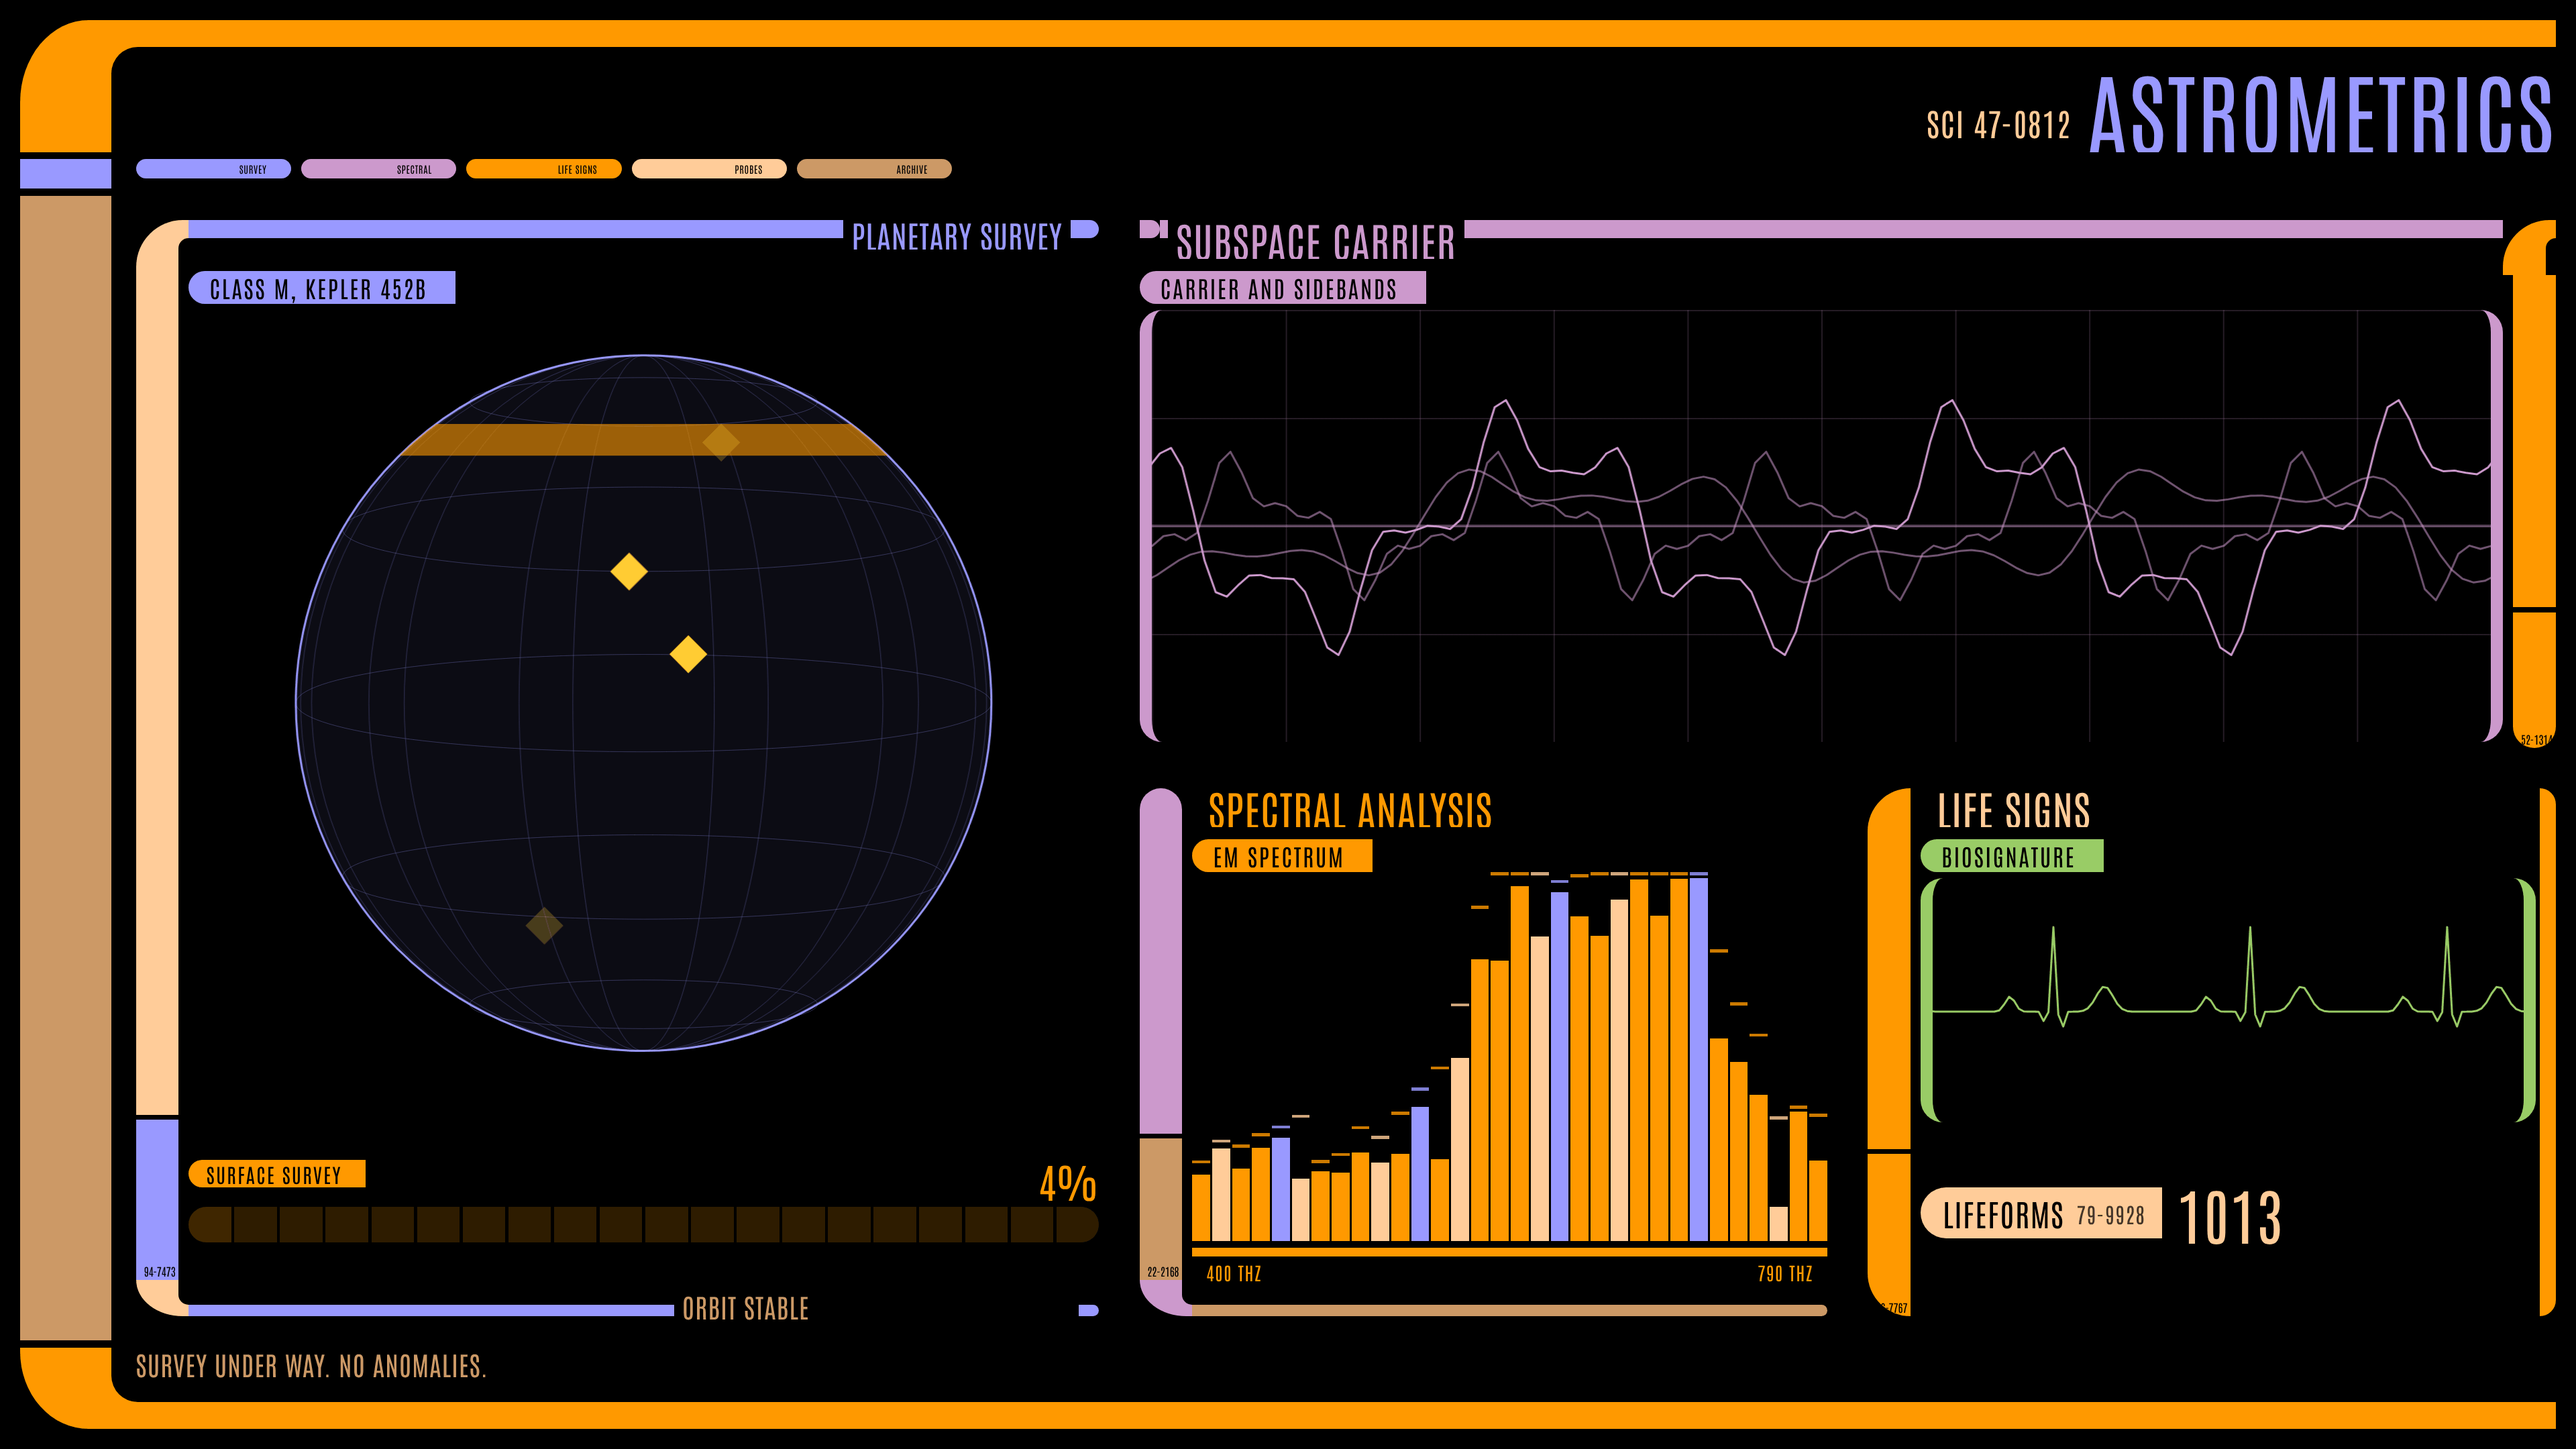
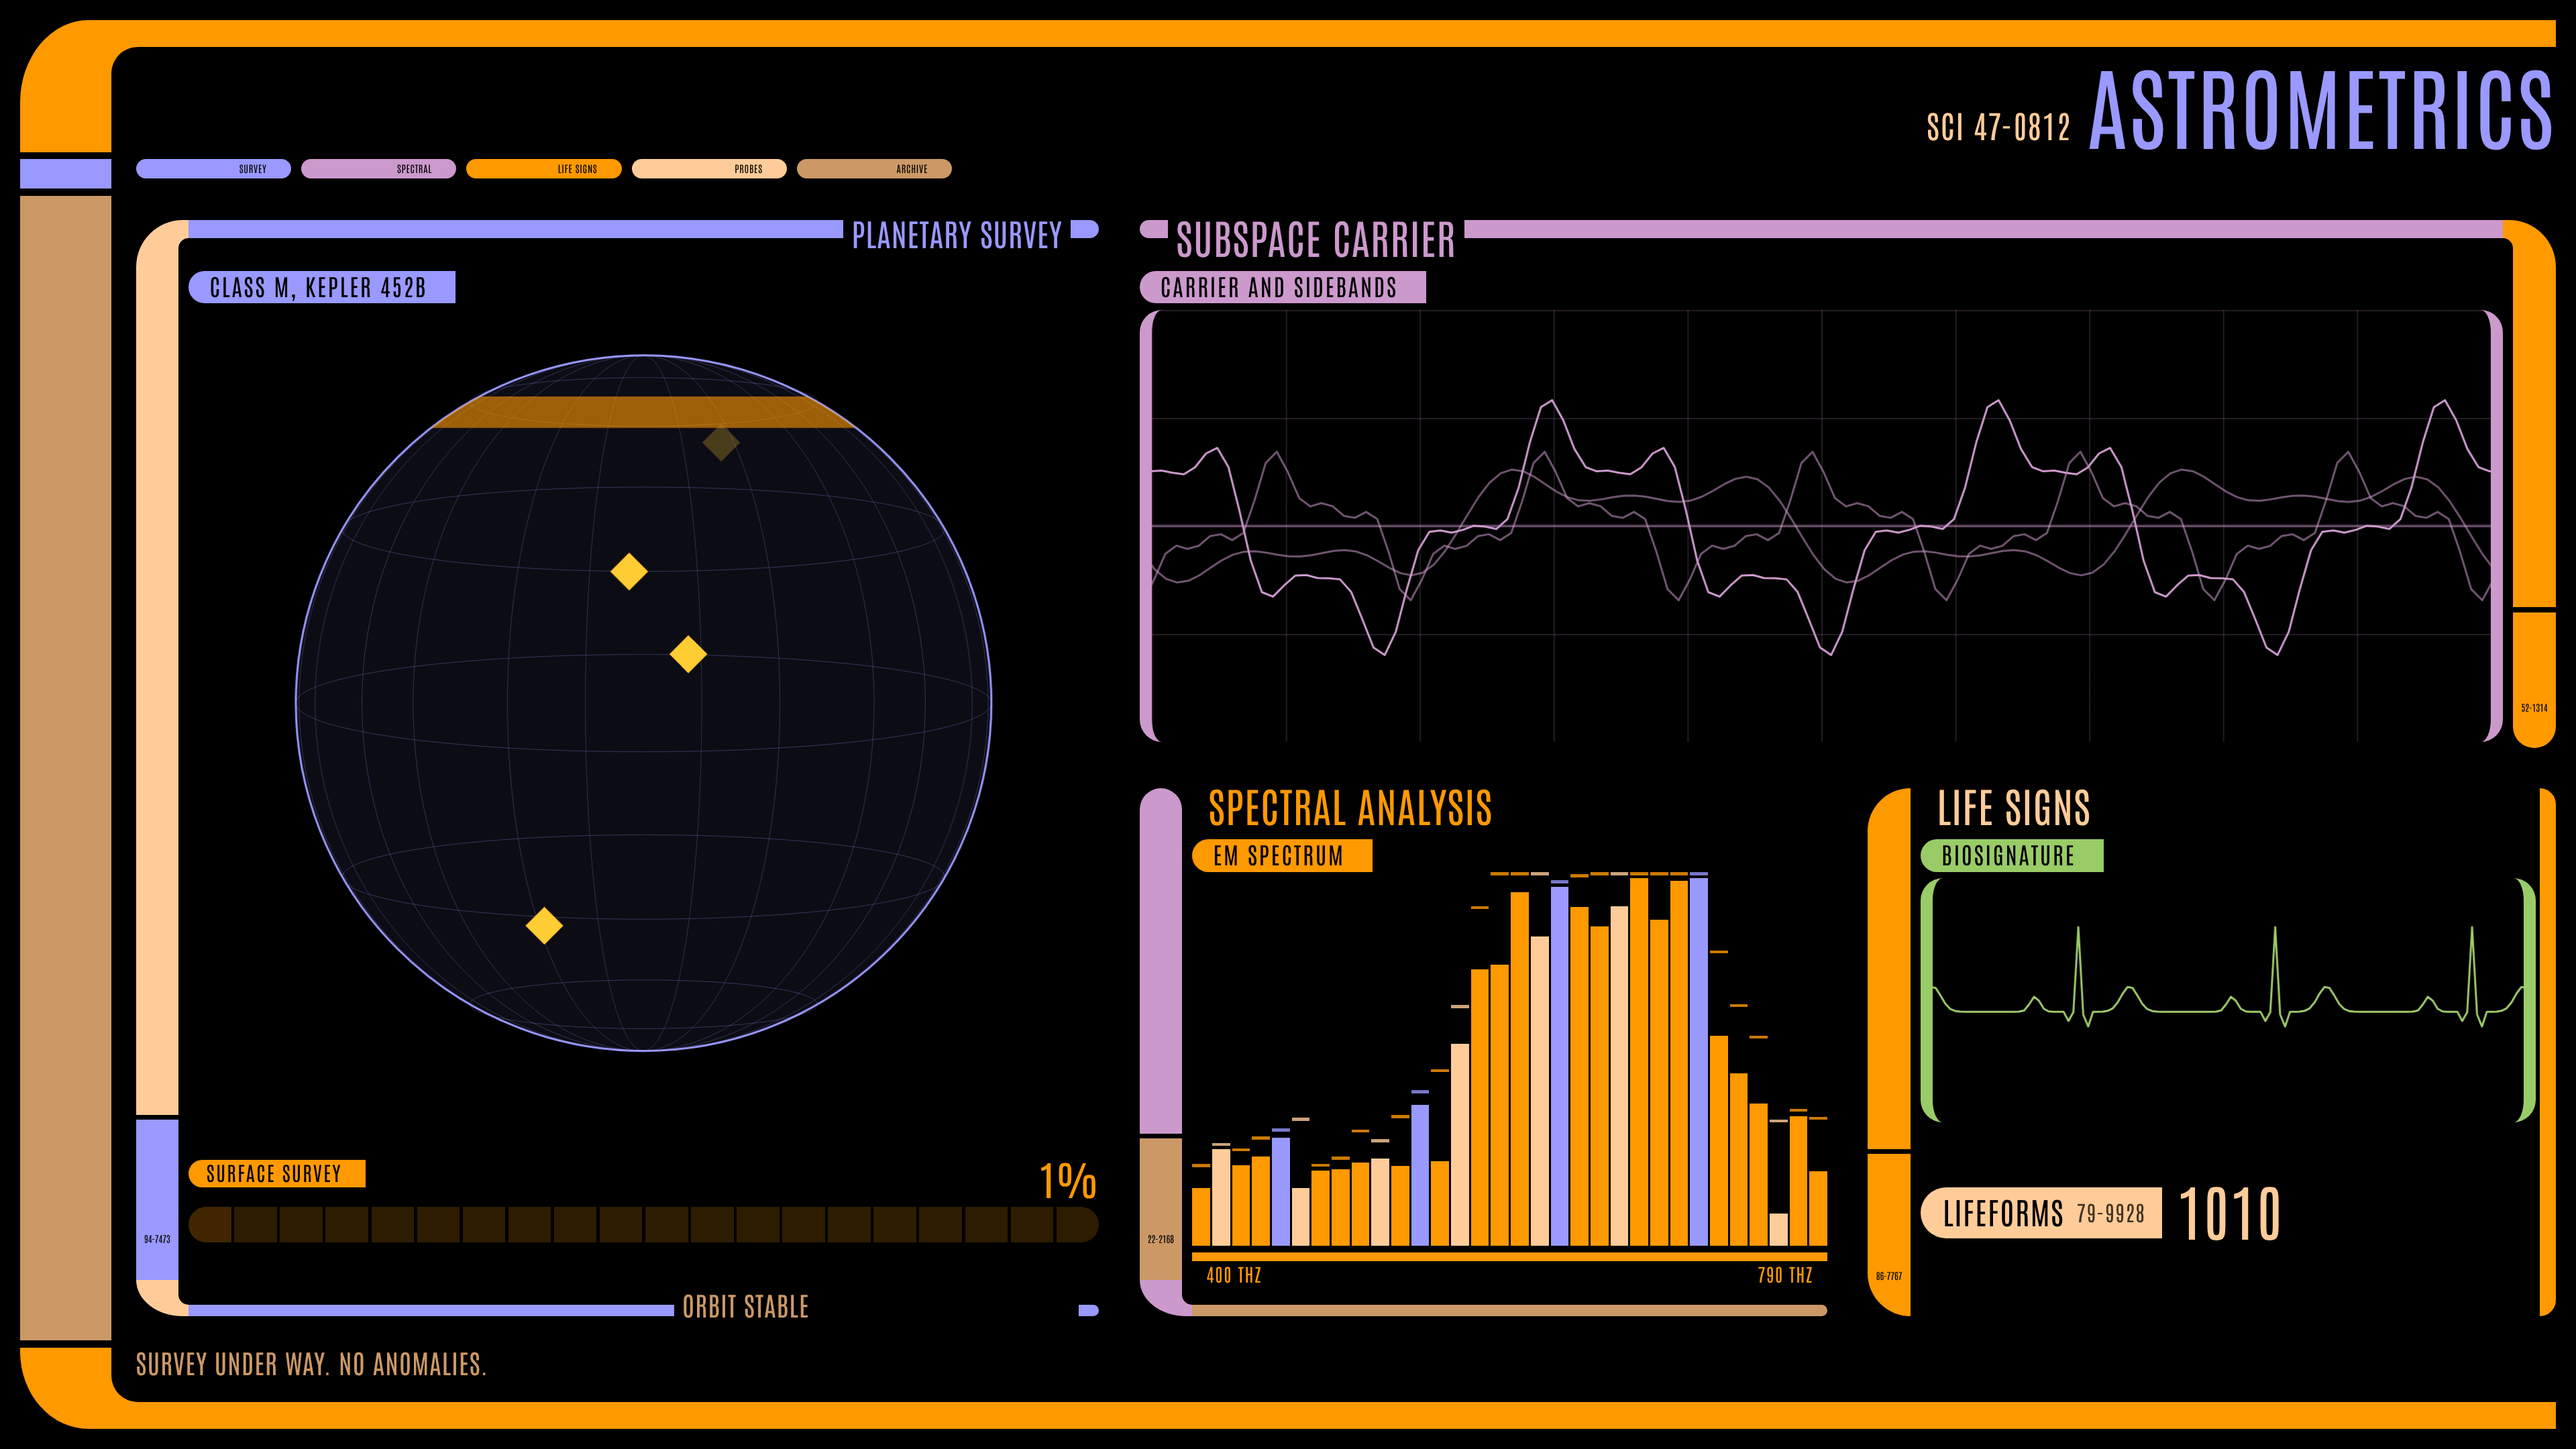
🐛 fix(themes): mirror LCARS panel curves and stop clipping labels
Right-side panels set their chrome to left-to-right, so corners and bar caps
curved the wrong way. Reference numbers now sit centred above a rounded column
end instead of being cut off. Antonio's metrics are evened out (ascent and
descent overrides) so capitals sit in the middle of their line and tight line
heights no longer cut off the bottom of the letters.

Claude-Session: https://claude.ai/code/session_01SzLnYgUxCK6rHxSLCbML59

diff --git a/packages/themes/src/lcars/lcars.css b/packages/themes/src/lcars/lcars.css
@@ -1288,9 +1288,13 @@
 }
 
 .lcars-panel > * {
-  direction: ltr;
   min-width: 0;
   min-height: 0;
+}
+
+/* Chrome keeps the panel's direction so its curves mirror; only the contents read left to right. */
+.lcars-panel > :is(.lcars-panel__title, .lcars-panel__main, .lcars-panel__status) {
+  direction: ltr;
 }
 
 .lcars-panel__corner {
@@ -1429,13 +1433,18 @@
   overflow: hidden;
 }
 
+/* The reference number sits near the foot of the block, centred and above where a rounded end starts to curve,
+   small enough to fit the column. */
 .lcars-panel__code {
   position: absolute;
-  inset-inline-end: calc(0.3 * var(--u));
-  bottom: calc(0.2 * var(--u));
+  inset-inline: 0;
+  bottom: calc(var(--p-radius) * 0.75);
   color: var(--theme-bg);
+  direction: ltr;
   font-family: var(--font-display);
-  font-size: calc(1.1 * var(--u));
+  font-size: min(calc(1 * var(--u)), calc(var(--p-arm) / 4.6));
+  line-height: 1;
+  text-align: center;
   white-space: nowrap;
 }
 

diff --git a/packages/themes/src/lcars/font.css b/packages/themes/src/lcars/font.css
@@ -1,0 +1,26 @@
+/*
+ * Antonio, self-hosted, with its vertical metrics evened out. As shipped its ascent (1.155em) is far taller than
+ * its capitals (0.88em) and its descent is small, so all-caps labels sat low in their line and a tight line
+ * height cut off the bottom of the letters. These overrides put the capitals in the middle of the line.
+ */
+@font-face {
+  font-family: "Antonio";
+  font-style: normal;
+  font-display: swap;
+  font-weight: 400;
+  src: url("../../node_modules/@fontsource/antonio/files/antonio-latin-400-normal.woff2") format("woff2");
+  ascent-override: 97%;
+  descent-override: 9%;
+  line-gap-override: 0%;
+}
+
+@font-face {
+  font-family: "Antonio";
+  font-style: normal;
+  font-display: swap;
+  font-weight: 700;
+  src: url("../../node_modules/@fontsource/antonio/files/antonio-latin-700-normal.woff2") format("woff2");
+  ascent-override: 97%;
+  descent-override: 9%;
+  line-gap-override: 0%;
+}

diff --git a/packages/themes/src/lcars/instruments.css b/packages/themes/src/lcars/instruments.css
@@ -26,7 +26,7 @@
   justify-self: start;
   width: fit-content;
   max-width: 100%;
-  padding: 0.12em 1.2em 0.08em 0.9em;
+  padding: 0.1em 1.2em 0.1em 0.9em;
   border-radius: 999px 0 0 999px;
   background: var(--tone);
   color: var(--theme-bg);
@@ -198,7 +198,7 @@
 }
 
 .screen[data-theme="lcars"] .base-target__status {
-  padding: 0.12em 1em 0.08em;
+  padding: 0.1em 1em;
   border-radius: 0 999px 999px 0;
   background: var(--tone);
   color: var(--theme-bg);

diff --git a/packages/themes/src/lcars/renderers.ts b/packages/themes/src/lcars/renderers.ts
@@ -8,8 +8,7 @@ import { LcarsConsoleFrame, LcarsDashboardFrame, LcarsHeaderMainFrame, LcarsSide
 import { LcarsPanelFrame } from "./LcarsPanel.tsx";
 import { LcarsText } from "./LcarsText.tsx";
 import { LcarsTitle } from "./LcarsTitle.tsx";
-import "@fontsource/antonio/latin-400.css";
-import "@fontsource/antonio/latin-700.css";
+import "./font.css";
 import "./lcars.css";
 import "./instruments.css";
 
